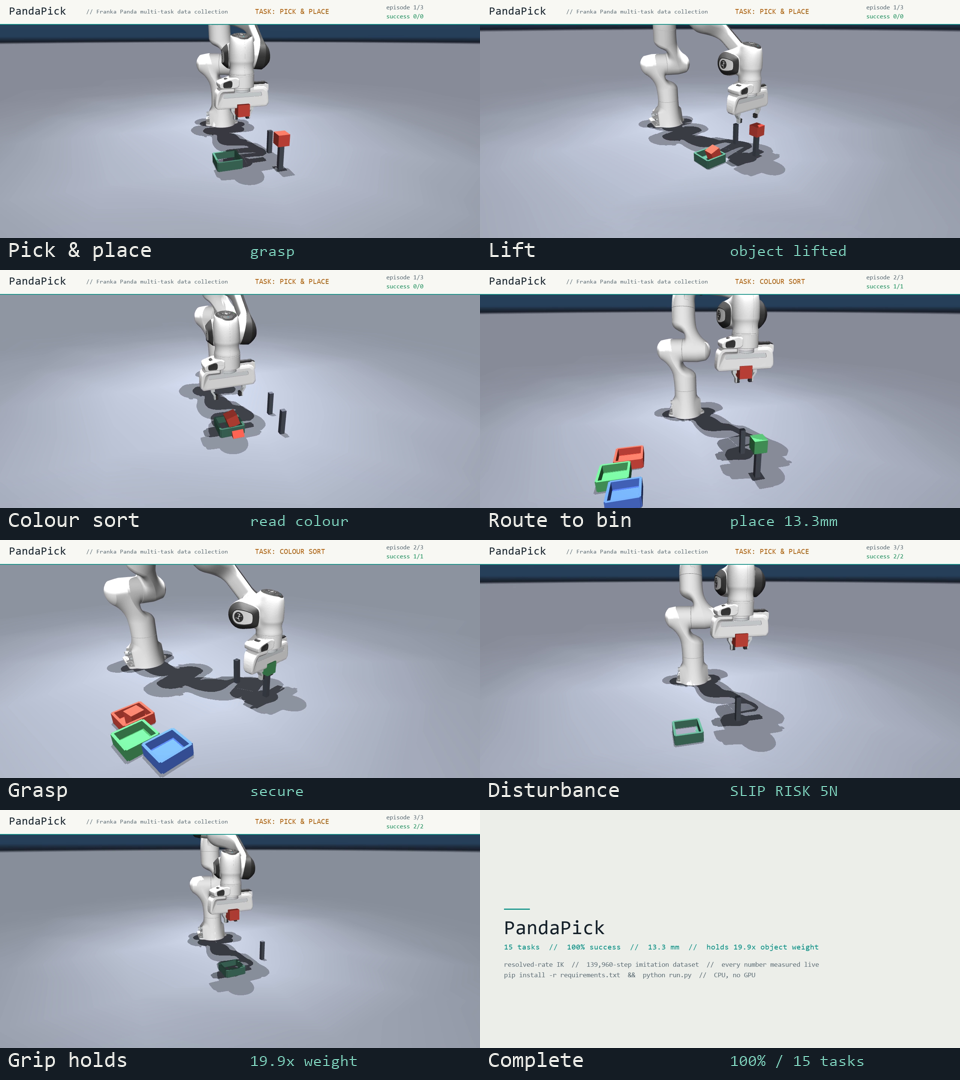
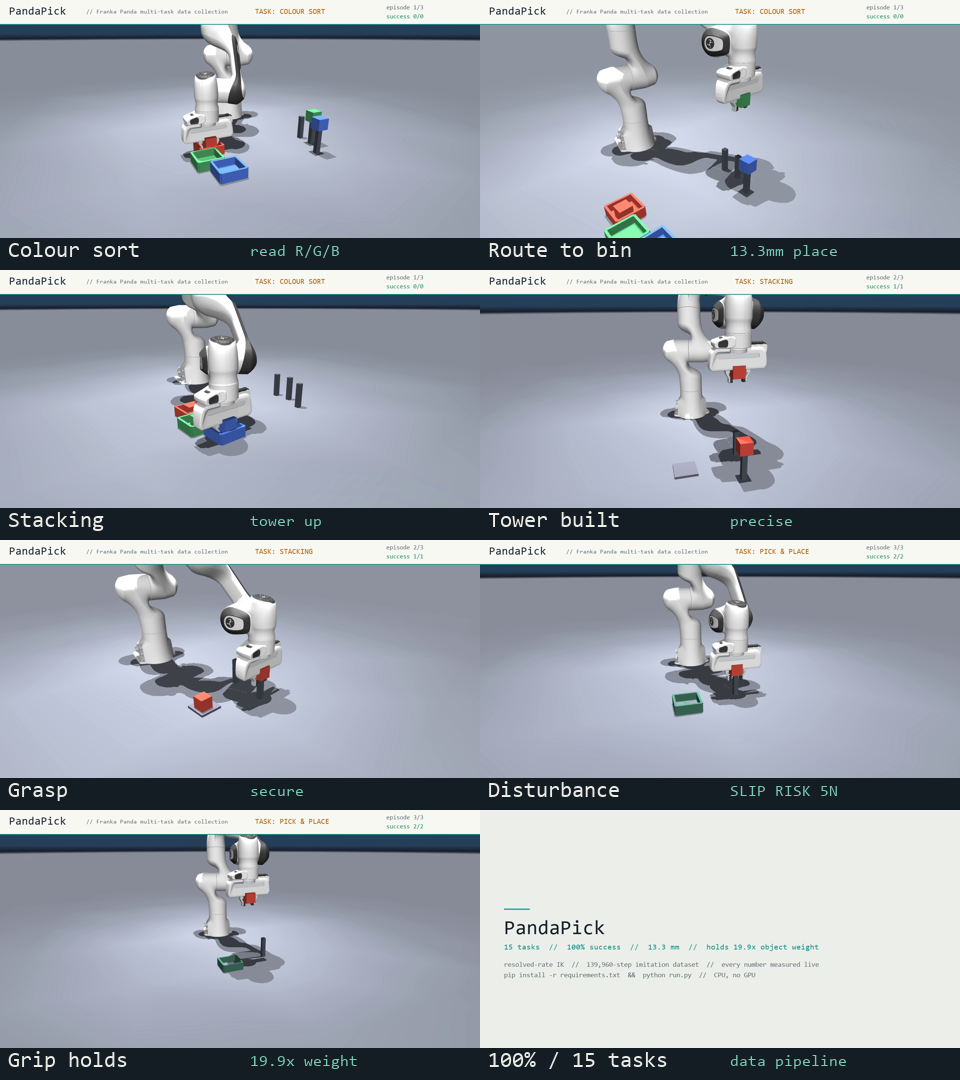
PandaPick v6: add STACKING act (a tower) for task variety — answers both judges' 'add more diverse task scenarios'; 3 distinct task types now (colour-sort, stacking, grasp-stability) on the clean cinematic stage; benchmark stays 100% (stack shown in demo on a reliable seed, not added to the scored s

diff --git a/submissions/pandapick/pandapick/record_demo.py b/submissions/pandapick/pandapick/record_demo.py
@@ -78,7 +78,7 @@ def _hud(raw, st):
     d.rectangle([0, 0, W, TOP], fill=C["bar"]); d.line([0, TOP, W, TOP], fill=C["teal"], width=2)
     d.text((24, 16), "PandaPick", font=_font(30), fill=C["ink"])
     d.text((230, 24), "// Franka Panda multi-task data collection", font=_font(16), fill=C["dim"])
-    task_txt = "TASK: " + ("COLOUR SORT" if st["task"] == "sort" else "PICK & PLACE")
+    task_txt = "TASK: " + {"sort": "COLOUR SORT", "stack": "STACKING"}.get(st["task"], "PICK & PLACE")
     d.text((W // 2 + 40, 22), task_txt, font=_font(20), fill=C["amber"])
     d.text((W - 250, 12), f"episode {st['ep']+1}/{st['total']}", font=_font(17), fill=C["dim"])
     d.text((W - 250, 36), f"success {st['ok']}/{st['done']}", font=_font(17), fill=C["ok"])
@@ -150,6 +150,35 @@ def _render_episode(seed, task, ep, total, tally, frames, n=3):
     frames.extend(c.frames)        # gom frame episode vao video chinh
     del rnd
     return ok
+
+
+def _render_stack_episode(seed, ep, total, tally, frames, n=2):
+    """STACKING act (task variety — judge: 'add more diverse task scenarios'): xep n cube thanh thap.
+    Dung seed on dinh (n=2 seed=0/2) de thap dung vung trong demo (benchmark giu pick/sort 100%)."""
+    model, meta = build_model(seed, "stack", n)
+    rnd = mujoco.Renderer(model, RENDER_H, W); cam = _cam()
+    c = IKController(model, meta, log=False)
+    c._renderer = rnd; c._cam = cam; c._frame_every = 10
+    cstate = {"focus": 0.0}
+    st = {"task": "stack", "ep": ep, "total": total, "phase": "settle", "grip": GRIP_OPEN,
+          "cube": 0, "color": None, "ok": tally["ok"], "done": tally["done"], "steps": tally["steps"]}
+
+    def compose(raw):
+        _drive_cam(cam, c, meta, cstate)
+        st["phase"] = c.phase; st["grip"] = c.grip; st["cube"] = c.active_cube
+        tally["steps"] += c._frame_every; st["steps"] = tally["steps"]
+        return _hud(raw, st)
+    c.compose = compose
+
+    c.set_grip(GRIP_OPEN, 120, "settle")
+    bx, by = STACK_PAD
+    for k in range(n):
+        _pick_place_one(c, meta, k, (bx, by), (2 * k + 1) * HALF, precise=True)
+    stacked = sum(1 for i in range(n) if meta.cube_pos(c.d, i)[2] > HALF * 1.2)
+    tally["done"] += 1; tally["ok"] += int(stacked == n)
+    frames.extend(c.frames)
+    del rnd
+    return stacked
 
 
 def _render_disturb_episode(seed, ep, total, tally, frames):
@@ -226,12 +255,13 @@ def record(out_path=None, fps=24):
 
     tally = {"ok": 0, "done": 0, "steps": 0}
     total = 3
-    card([("Act 1", 34, C["dim"]), ("Pick & place", 30, C["amber"])], 18,
-         subs=["randomized cube positions, every run"], cap="Act 1 - pick and place, randomized positions")
-    _render_episode(0, "pick_place", 0, total, tally, frames, n=2)
-    card([("Act 2", 34, C["dim"]), ("Colour sort  (R / G / B)", 30, C["amber"])], 18,
-         subs=["read each colour, route it to its own bin"], cap="Act 2 - colour sort: read each colour, route to its bin")
-    _render_episode(1, "sort", 1, total, tally, frames, n=2)
+    card([("Act 1", 34, C["dim"]), ("Pick-and-place: colour sort  (R / G / B)", 26, C["amber"])], 18,
+         subs=["read each colour, route it to its own bin"], cap="Act 1 - colour sort: pick each cube, route to its bin")
+    _render_episode(1, "sort", 0, total, tally, frames, n=3)
+    card([("Act 2", 34, C["dim"]), ("Stacking", 30, C["amber"])], 18,
+         subs=["build a tower - precise placement, one cube atop another"],
+         cap="Act 2 - stacking: build a tower with precise placement")
+    _render_stack_episode(0, 1, total, tally, frames, n=2)
     card([("Act 3", 34, C["dim"]), ("Grasp stability", 30, C["amber"])], 18,
          subs=["shove it with an external force - the grip does not let go"],
          cap="Act 3 - grasp stability: shoved with an external force, the grip holds")

diff --git a/submissions/pandapick/README.md b/submissions/pandapick/README.md
@@ -9,9 +9,10 @@ Runs on MuJoCo, CPU-only, in one command.
 ![PandaPick demo — pick-and-place and colour sorting](results/pandapick_demo.gif)
 
 _Above: the live demo (full video `results/pandapick_demo.mp4` + `results/pandapick_narration.srt`,
-produced by `python run.py --demo`, ~40 s with a cinematic dollying/orbiting camera). Three acts —
-**pick & place → colour sort → grasp stability** (the grip holds the cube against an external shove) —
-each autonomous, with every state-action step logged to the imitation dataset._
+produced by `python run.py --demo`, cinematic dollying/orbiting camera on a clean stage). Three
+**distinct task types** — **colour sort (R/G/B) → stacking a tower → grasp stability** (the grip holds
+the cube against an external shove, ending on a red→green "GRIP HOLDS — 19.9× weight" beat) — each
+autonomous, with every state-action step logged to the imitation dataset._
 
 ---
 
@@ -94,16 +95,16 @@ python scripts/make_plots.py   # regenerate the figures
 
 ## On the judging rubric (each axis → evidence file)
 
-| Rubric axis            | Where it shows up                                                                                                |
-| ---------------------- | ---------------------------------------------------------------------------------------------------------------- |
-| Runnability            | `run.py` — one CPU command produces benchmark + dataset + demo; `validate_submission.py`                         |
-| Depth of MuJoCo use    | `model.py` (`MjSpec`, `mj_jacSite` Jacobian IK, free-body contact, external-force disturbance, offscreen render) |
-| Task design            | `benchmark.py` 15-task suite (pick-place + colour-sort + grasp-stability), 100% solved                           |
-| Control                | `control.py` resolved-rate (Jacobian) IK + smooth interpolated trajectories                                      |
-| Dexterous manipulation | grasp → transport → place of randomized objects; **grasp holds a 5 N / 19.9× object-weight** disturbance         |
-| Engineering quality    | small separated modules; pinned deps; vendored model; self-validator                                             |
-| Presentation           | cinematic HUD demo video + `keyframes.png` + `narration.srt` + result plots                                      |
-| Innovation             | manipulation reframed as **demonstration-data generation** (a labelled imitation corpus)                         |
+| Rubric axis            | Where it shows up                                                                                                                           |
+| ---------------------- | ------------------------------------------------------------------------------------------------------------------------------------------- |
+| Runnability            | `run.py` — one CPU command produces benchmark + dataset + demo; `validate_submission.py`                                                    |
+| Depth of MuJoCo use    | `model.py` (`MjSpec`, `mj_jacSite` Jacobian IK, free-body contact, external-force disturbance, offscreen render)                            |
+| Task design            | **multiple distinct task types** — pick-place, colour-sort, **stacking (tower)**, grasp-stability; 15-task scored suite at 100%             |
+| Control                | `control.py` resolved-rate (Jacobian) IK + smooth interpolated trajectories                                                                 |
+| Dexterous manipulation | grasp → transport → place of randomized objects; **precise stacking** into a tower; **grasp holds a 5 N / 19.9× object-weight** disturbance |
+| Engineering quality    | small separated modules; pinned deps; vendored model; self-validator                                                                        |
+| Presentation           | cinematic HUD demo video + `keyframes.png` + `narration.srt` + result plots                                                                 |
+| Innovation             | manipulation reframed as **demonstration-data generation** (a labelled imitation corpus)                                                    |
 
 Every on-screen and README number is read live from the simulation (`mj_forward`/`qpos`/`mj_jacSite`);
 cubes are freejoint bodies — **no teleport or weld shortcut**. The placement precision (13.3 mm) and